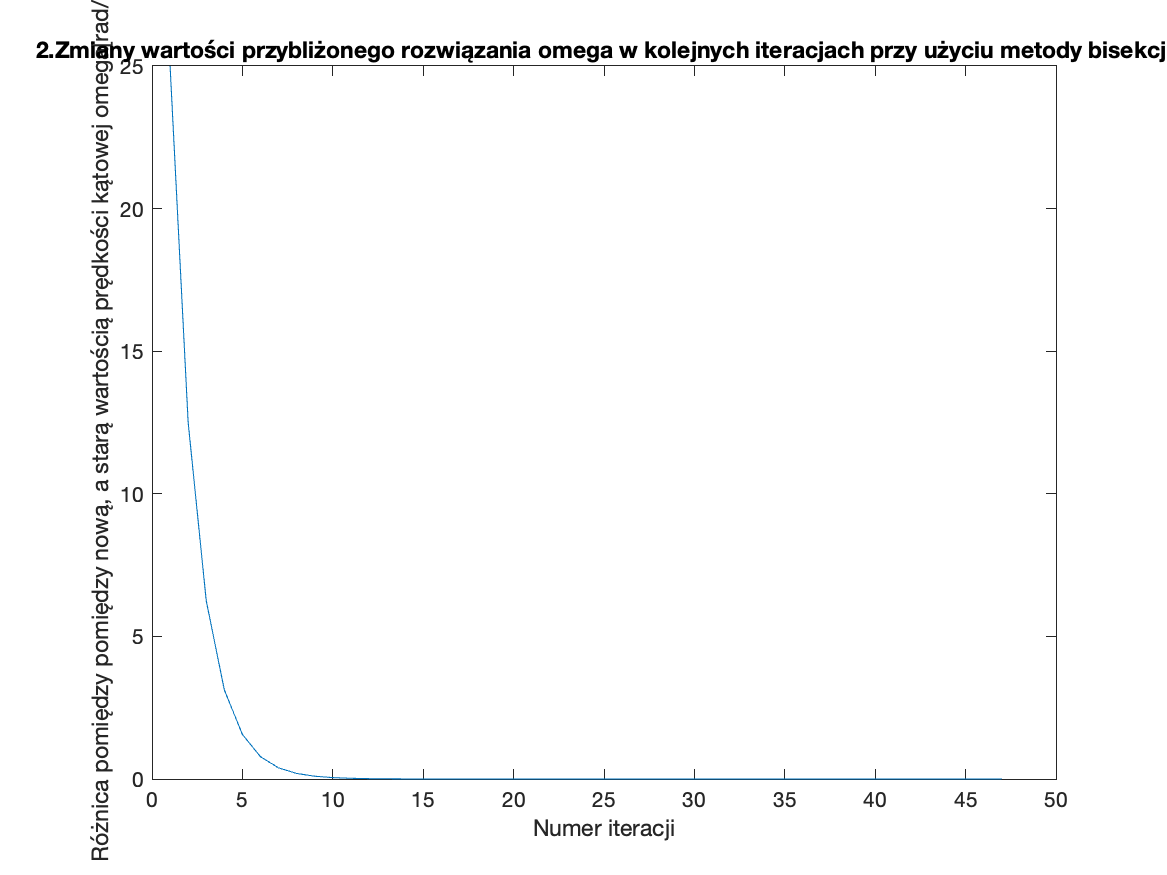
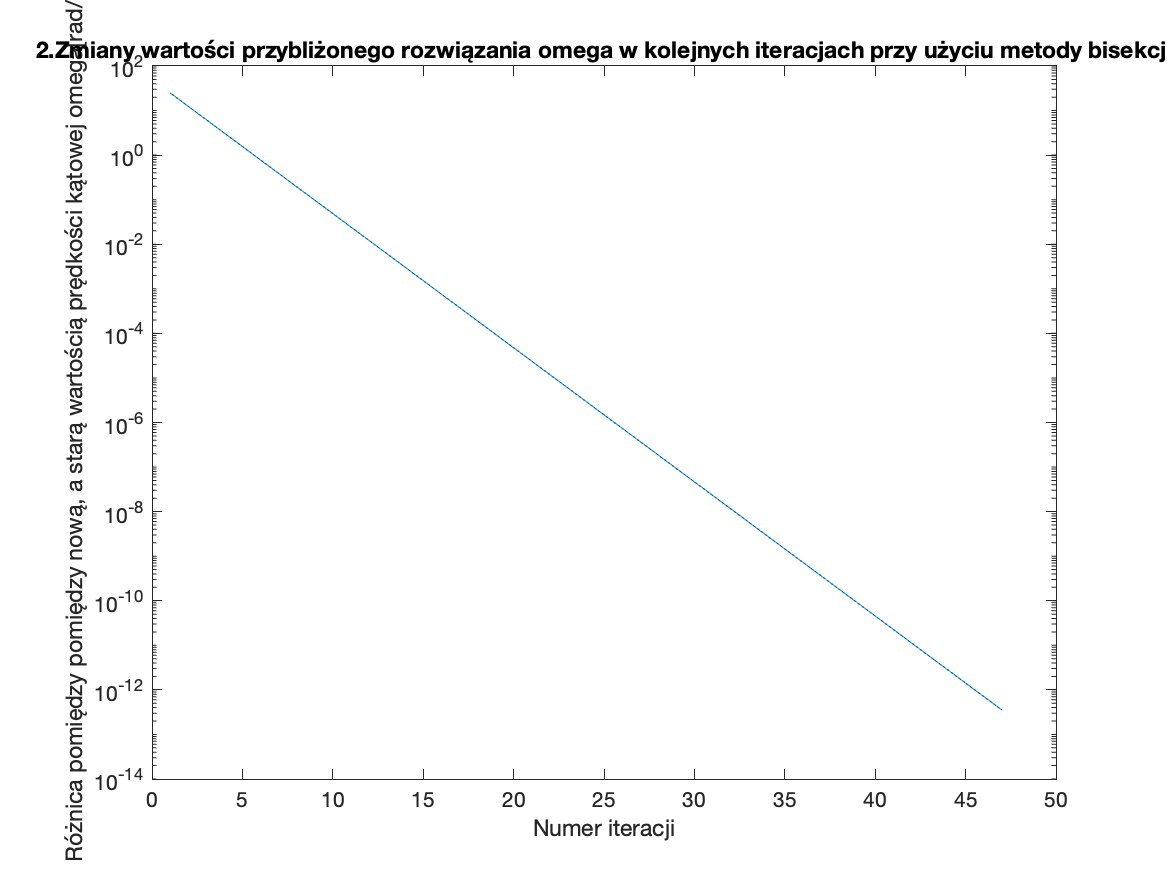
minor changes

Changed region(s): [[0.0617, 0.0, 0.1234, 0.9874]]

diff --git a/lab3/main_lab4.m b/lab3/main_lab4.m
@@ -8,14 +8,14 @@ b = 50;
 
 % 1 bisection
 [xvect, xdif, fx, it_cnt] = bisection(@time,1,60000,10^-3);
-semilogy(1:it_cnt, xvect)
+plot(1:it_cnt, xvect)
 title("1. Wartość kolejnego przybliżenia rozwiązania N w kolejnych iteracjach przy użyciu metody bisekcji");
 ylabel("Liczba parametrów wejściowych N");
 xlabel("Numer iteracji");
 saveas(gcf, 'ex1BisectionValues.png');
 
 figure(2);
-plot(1:it_cnt, xdif)
+semilogy(1:it_cnt, xdif)
 title("1. Zmiany wartości przybliżonego rozwiązania N  w kolejnych iteracjach przy użyciu metody bisekcji");
 ylabel("Różnica pomiędzy nową, a starą wartością N");
 xlabel("Numer iteracji");
@@ -25,14 +25,14 @@ saveas(gcf, 'ex1BisectionDiff.png');
 
 figure(3);
 [xvect, xdif, fx, it_cnt] = secant(@time,1,60000,10^-3);
-semilogy(1:it_cnt, xvect)
+plot(1:it_cnt, xvect)
 title("1. Wartość kolejnego przybliżenia rozwiązania N w kolejnych iteracjach przy użyciu metody siecznych");
 ylabel("Liczba parametrów wejściowych N");
 xlabel("Numer iteracji");
 saveas(gcf, 'ex1SecantValues.png');
 
 figure(4);
-plot(1:it_cnt, xdif)
+semilogy(1:it_cnt, xdif)
 title("1. Zmiany wartości przybliżonego rozwiązania N dla kolejnych przy użyciu metody siecznych");
 ylabel("Różnica pomiędzy nową, a starą wartością N");
 xlabel("Numer iteracji");
@@ -42,14 +42,14 @@ saveas(gcf, 'ex1SecantDiff.png');
 % 2 bisection
 [xvect,xdif,fx,it_cnt] = bisection(@compute_impedance, 0, 50, 10^-12);
 figure(5);
-semilogy(1:it_cnt, xvect)
+plot(1:it_cnt, xvect)
 title("2.  Wartość kolejnego przybliżenia rozwiązania omega w kolejnych iteracjach przy użyciu metody bisekcji");
 ylabel("Przybliżona wartość prędkości kątowej omega[rad/s]");
 xlabel("Numer iteracji");
 saveas(gcf, 'ex2BisectionValues.png');
 
 figure(6);
-plot(1:it_cnt, xdif)
+semilogy(1:it_cnt, xdif)
 title("2.Zmiany wartości przybliżonego rozwiązania omega w kolejnych iteracjach przy użyciu metody bisekcji");
 ylabel("Różnica pomiędzy pomiędzy nową, a starą wartością prędkości kątowej omega[rad/s]");
 xlabel("Numer iteracji");
@@ -58,14 +58,14 @@ saveas(gcf, 'ex2BisectionDiff.png');
 % 2 secant
 [xvect,xdif,fx,it_cnt] = secant(@compute_impedance, 0, 50, 10^-12);
 figure(7);
-semilogy(1:it_cnt, xvect)
+plot(1:it_cnt, xvect)
 title("2.  Wartość kolejnego przybliżenia rozwiązania omega w kolejnych iteracjach przy użyciu metody siecznych");
 ylabel("Przybliżona wartość prędkości kątowej omega[rad/s]");
 xlabel("Numer iteracji");
 saveas(gcf, 'ex2SecantValues.png');
 
 figure(8);
-plot(1:it_cnt, xdif)
+semilogy(1:it_cnt, xdif)
 title("2.Zmiany wartości przybliżonego rozwiązania omega w kolejnych iteracjach przy użyciu metody siecznych");
 ylabel("Różnica pomiędzy pomiędzy nową, a starą wartością prędkości kątowej omega[rad/s]");
 xlabel("Numer iteracji");
@@ -76,14 +76,14 @@ saveas(gcf, 'ex2SecantDiff.png');
 [xvect, xdif, fx, it_cnt] = bisection(@speed,0,50,10^-12);
 
 figure(9);
-semilogy(1:it_cnt, xvect)
+plot(1:it_cnt, xvect)
 title("1. Wartość kolejnego przybliżenia rozwiązania T w kolejnych iteracjach przy użyciu metody bisekcji");
 ylabel("Przybliżona wartość czasu T[s]");
 xlabel("Numer iteracji");
 saveas(gcf, 'ex3BisectionValues.png');
 
 figure(10);
-plot(1:it_cnt, xdif)
+semilogy(1:it_cnt, xdif)
 title("1. Zmiany wartości przybliżonego rozwiązania T  w kolejnych iteracjach przy użyciu metody bisekcji");
 ylabel("Różnica pomiędzy nową, a starą wartością T[s]");
 xlabel("Numer iteracji");
@@ -94,9 +94,8 @@ saveas(gcf, 'ex3BisectionDiff.png');
 
 [xvect, xdif, fx, it_cnt] = secant(@speed,0,50,10^-12);
 
-xvect = xvect(2:end);
 figure(11);
-semilogy(1:(it_cnt-1), xvect);
+plot(1:it_cnt, abs(xvect));
 %symlog(xvect, 1:it_cnt, 0.01);
 title("1. Wartość kolejnego przybliżenia rozwiązania T w kolejnych iteracjach przy użyciu metody siecznych");
 ylabel("Przybliżona wartość czasu T[s]");
@@ -105,7 +104,7 @@ saveas(gcf, 'ex3SecantValues.png');
 
 
 figure(12);
-plot(1:it_cnt, xdif)
+semilogy(1:it_cnt, xdif)
 title("1. Zmiany wartości przybliżonego rozwiązania T  w kolejnych iteracjach przy użyciu metody siecznych");
 ylabel("Różnica pomiędzy nową, a starą wartością T[s]");
 xlabel("Numer iteracji");

diff --git a/lab3/compute_impedance.m b/lab3/compute_impedance.m
@@ -2,7 +2,7 @@ function [value] = compute_impedance( omega )
 R = 725;
 C = 8*10^-5;
 L = 2;
-Z = 1/(sqrt((1/R^2) + (omega*C - 1/omega*L)^2));
+Z = 1/(sqrt((1/(R^2)) + (omega*C - 1/(omega*L))^2));
 value = Z - 75;
 
 end

diff --git a/lab3/speed.m b/lab3/speed.m
@@ -1,7 +1,7 @@
 function [value] = speed( t )
 
-g = 11;
-m = 1500000;
+g = 9.81;
+m = 150000;
 q = 2700;
 u = 2000;
 
